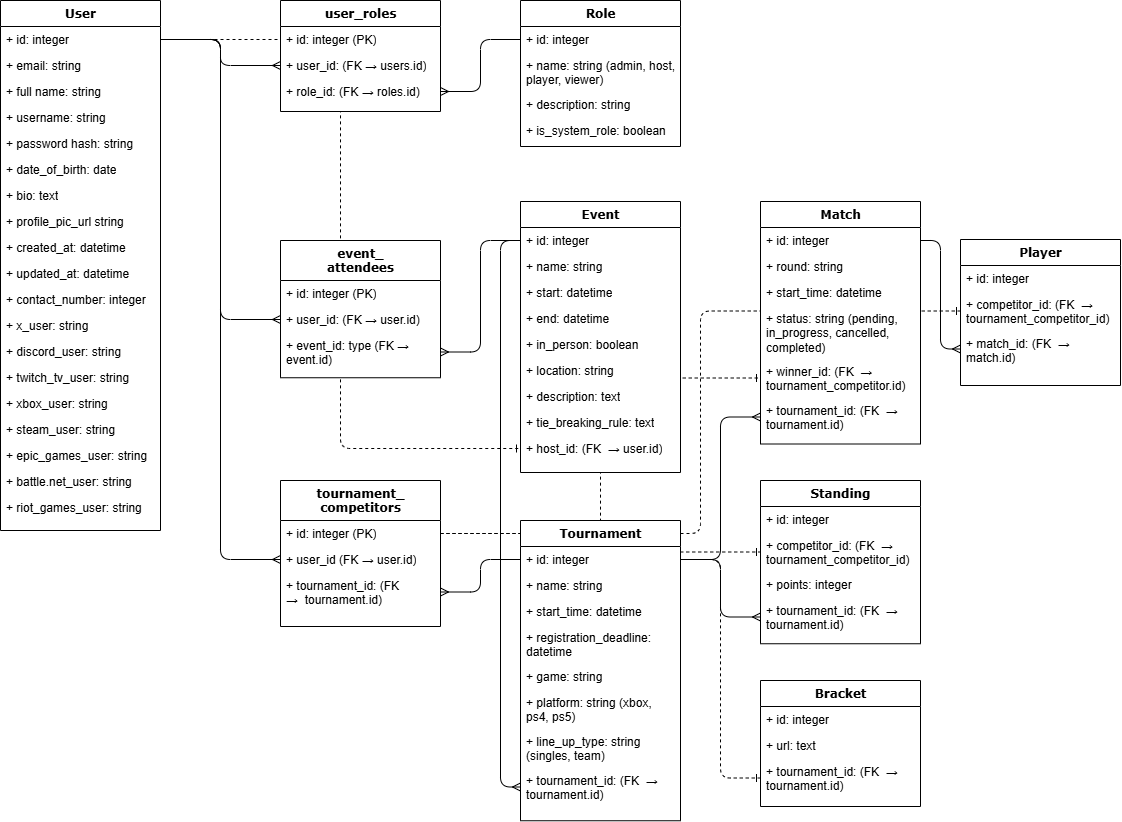
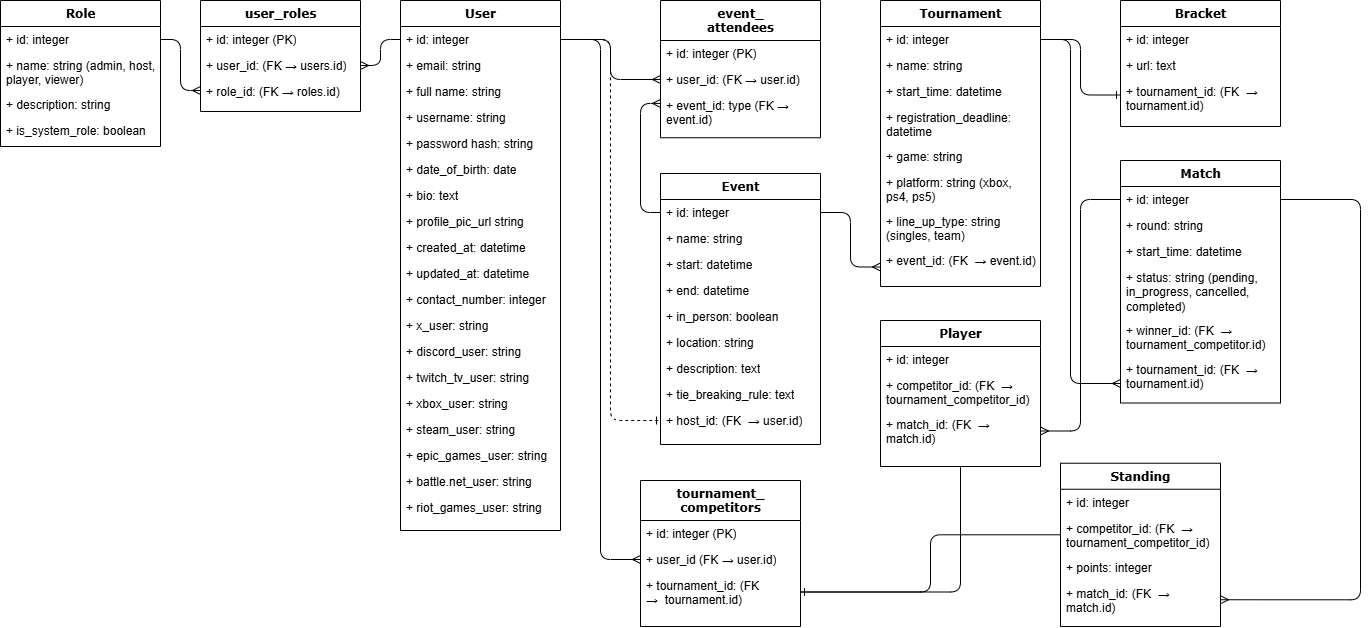
Another update to the ERD

diff --git a/server/models/users.py b/server/models/users.py
@@ -39,27 +39,27 @@ class User(db.Model):
   # Relationships
   # --------------
   
-  # User → Roles (global RBAC). Many to Many 
+  # User → Roles  
   roles = db.relationship(
     'UserRole',
     back_populates='user',
     cascade='all, delete-orphan'
   )
-  
-  # User → Event Host. One to Many
+
+  # User → Event Host
   hosted_events = db.relationship(
     'Event',
     back_populates='host',
     cascade='all, delete-orphan'
   )
   
-  # User → Event Attendees. Many to Many
+  # User → Event Attendees
   event_attendance = db.relationship(
     'EventAttendee',
     back_populates="user",
     cascade='all, delete-orphan'
   )
-  # User → Tournament Competitors. Many to Many
+  # User → Tournament Competitors
   tournament_competitions = db.relationship(
     'TournamentCompetitor',
     back_populates='user',
